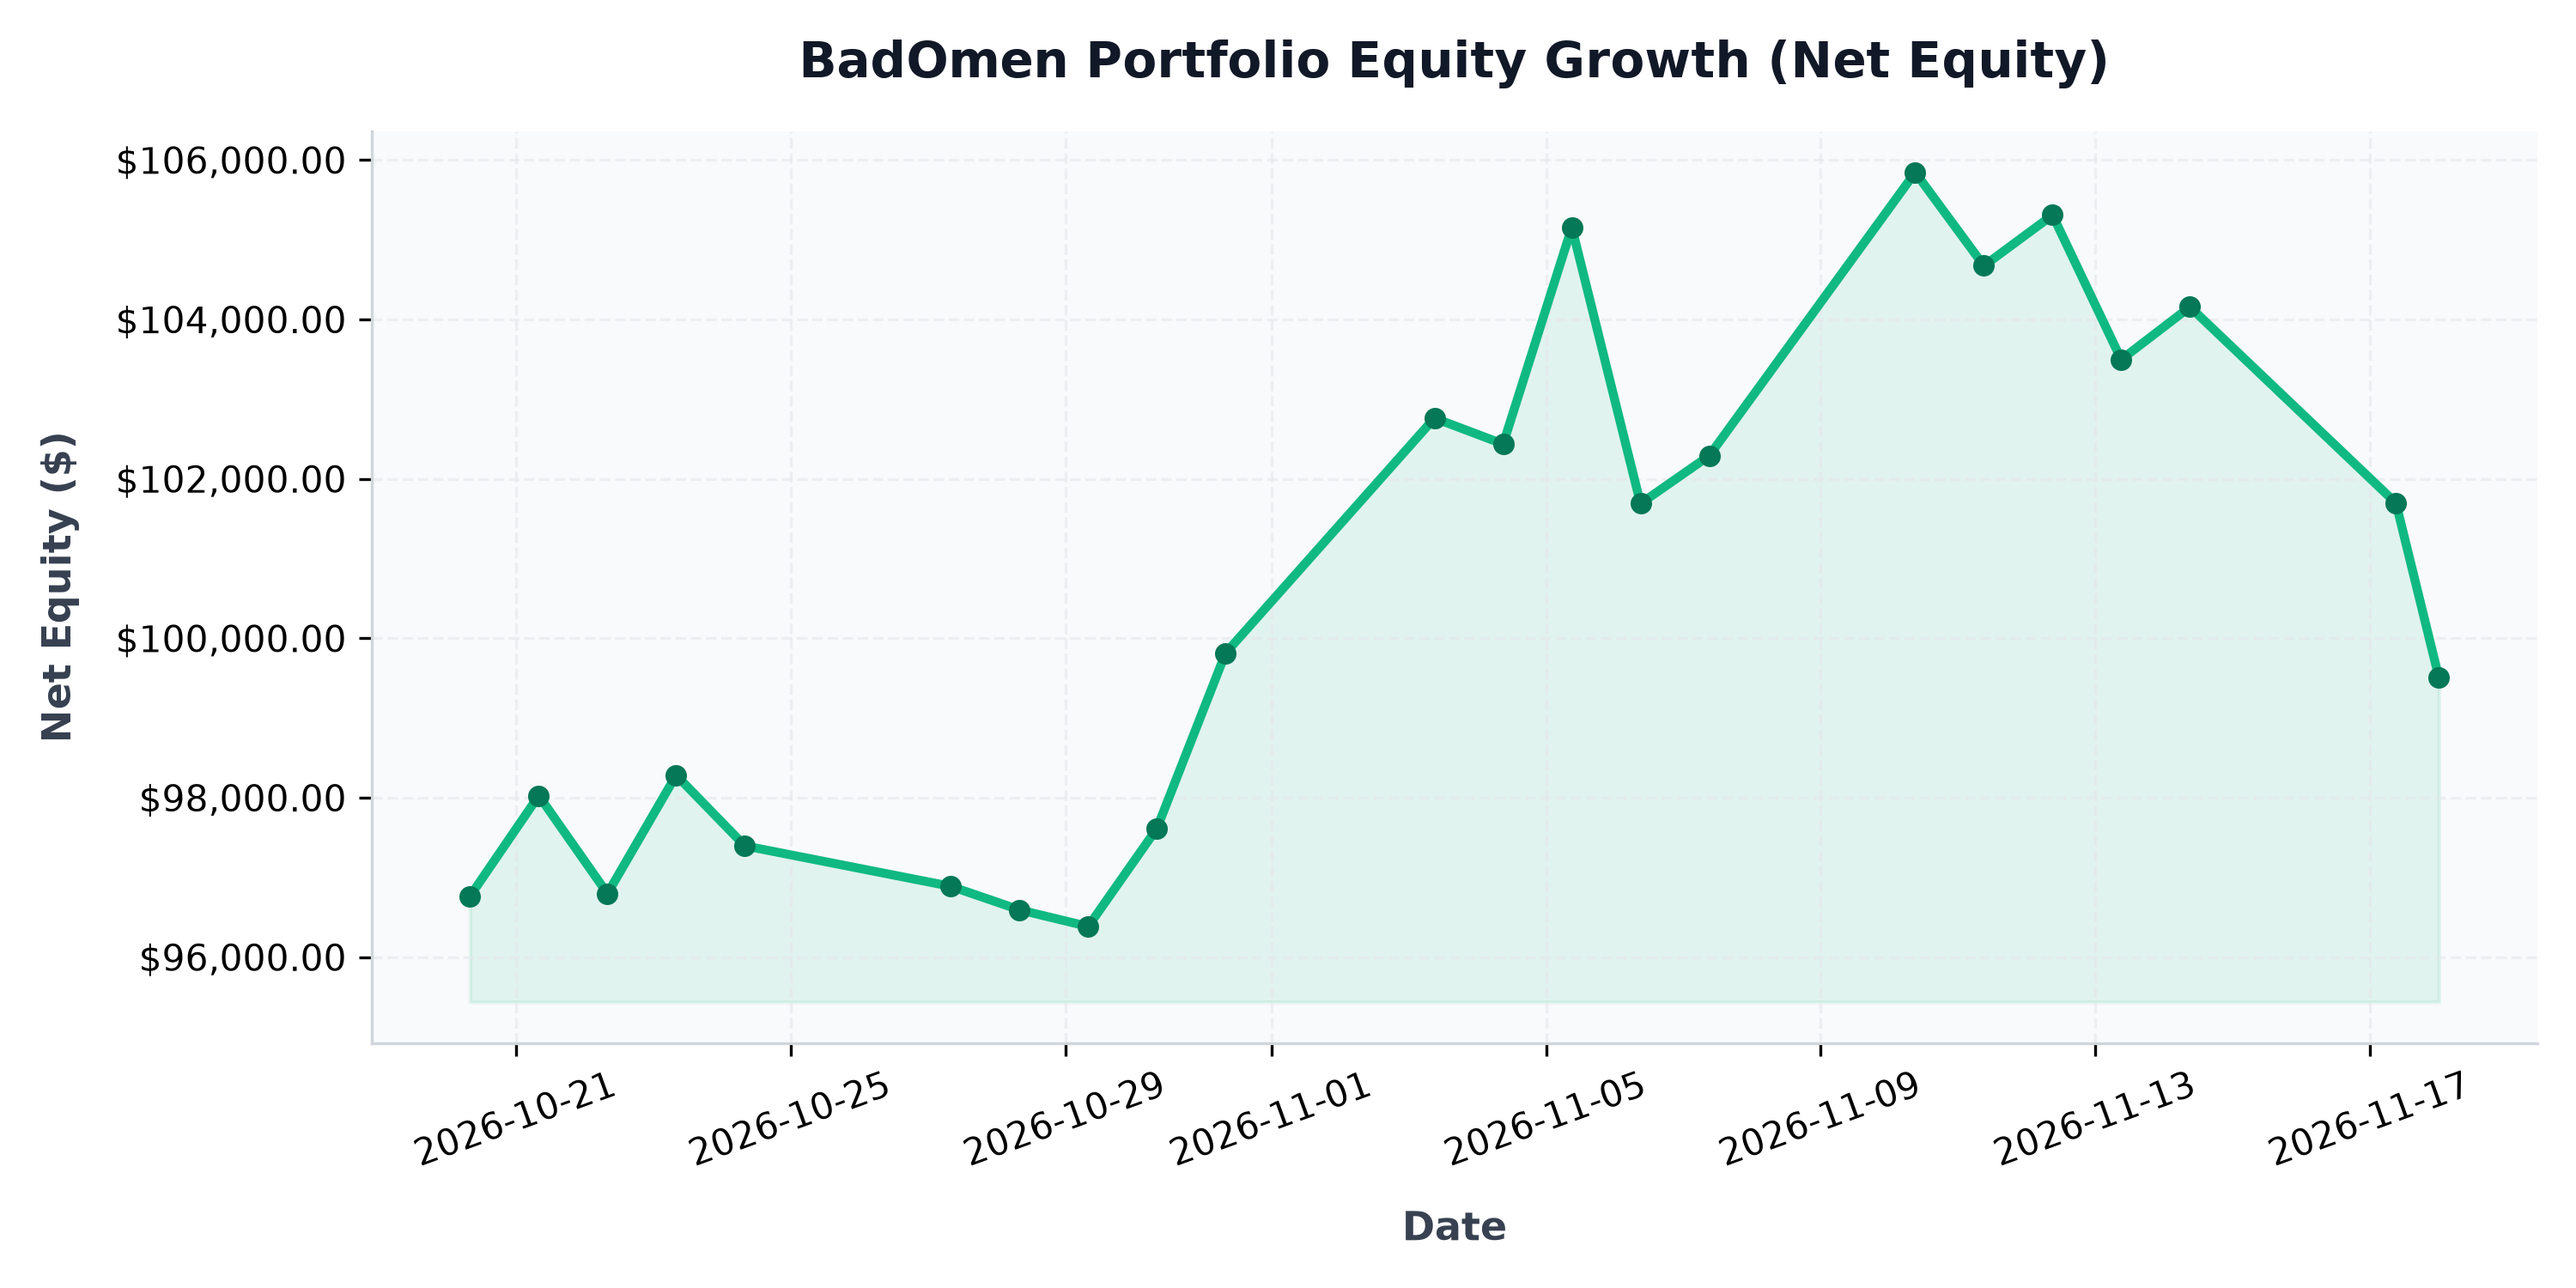
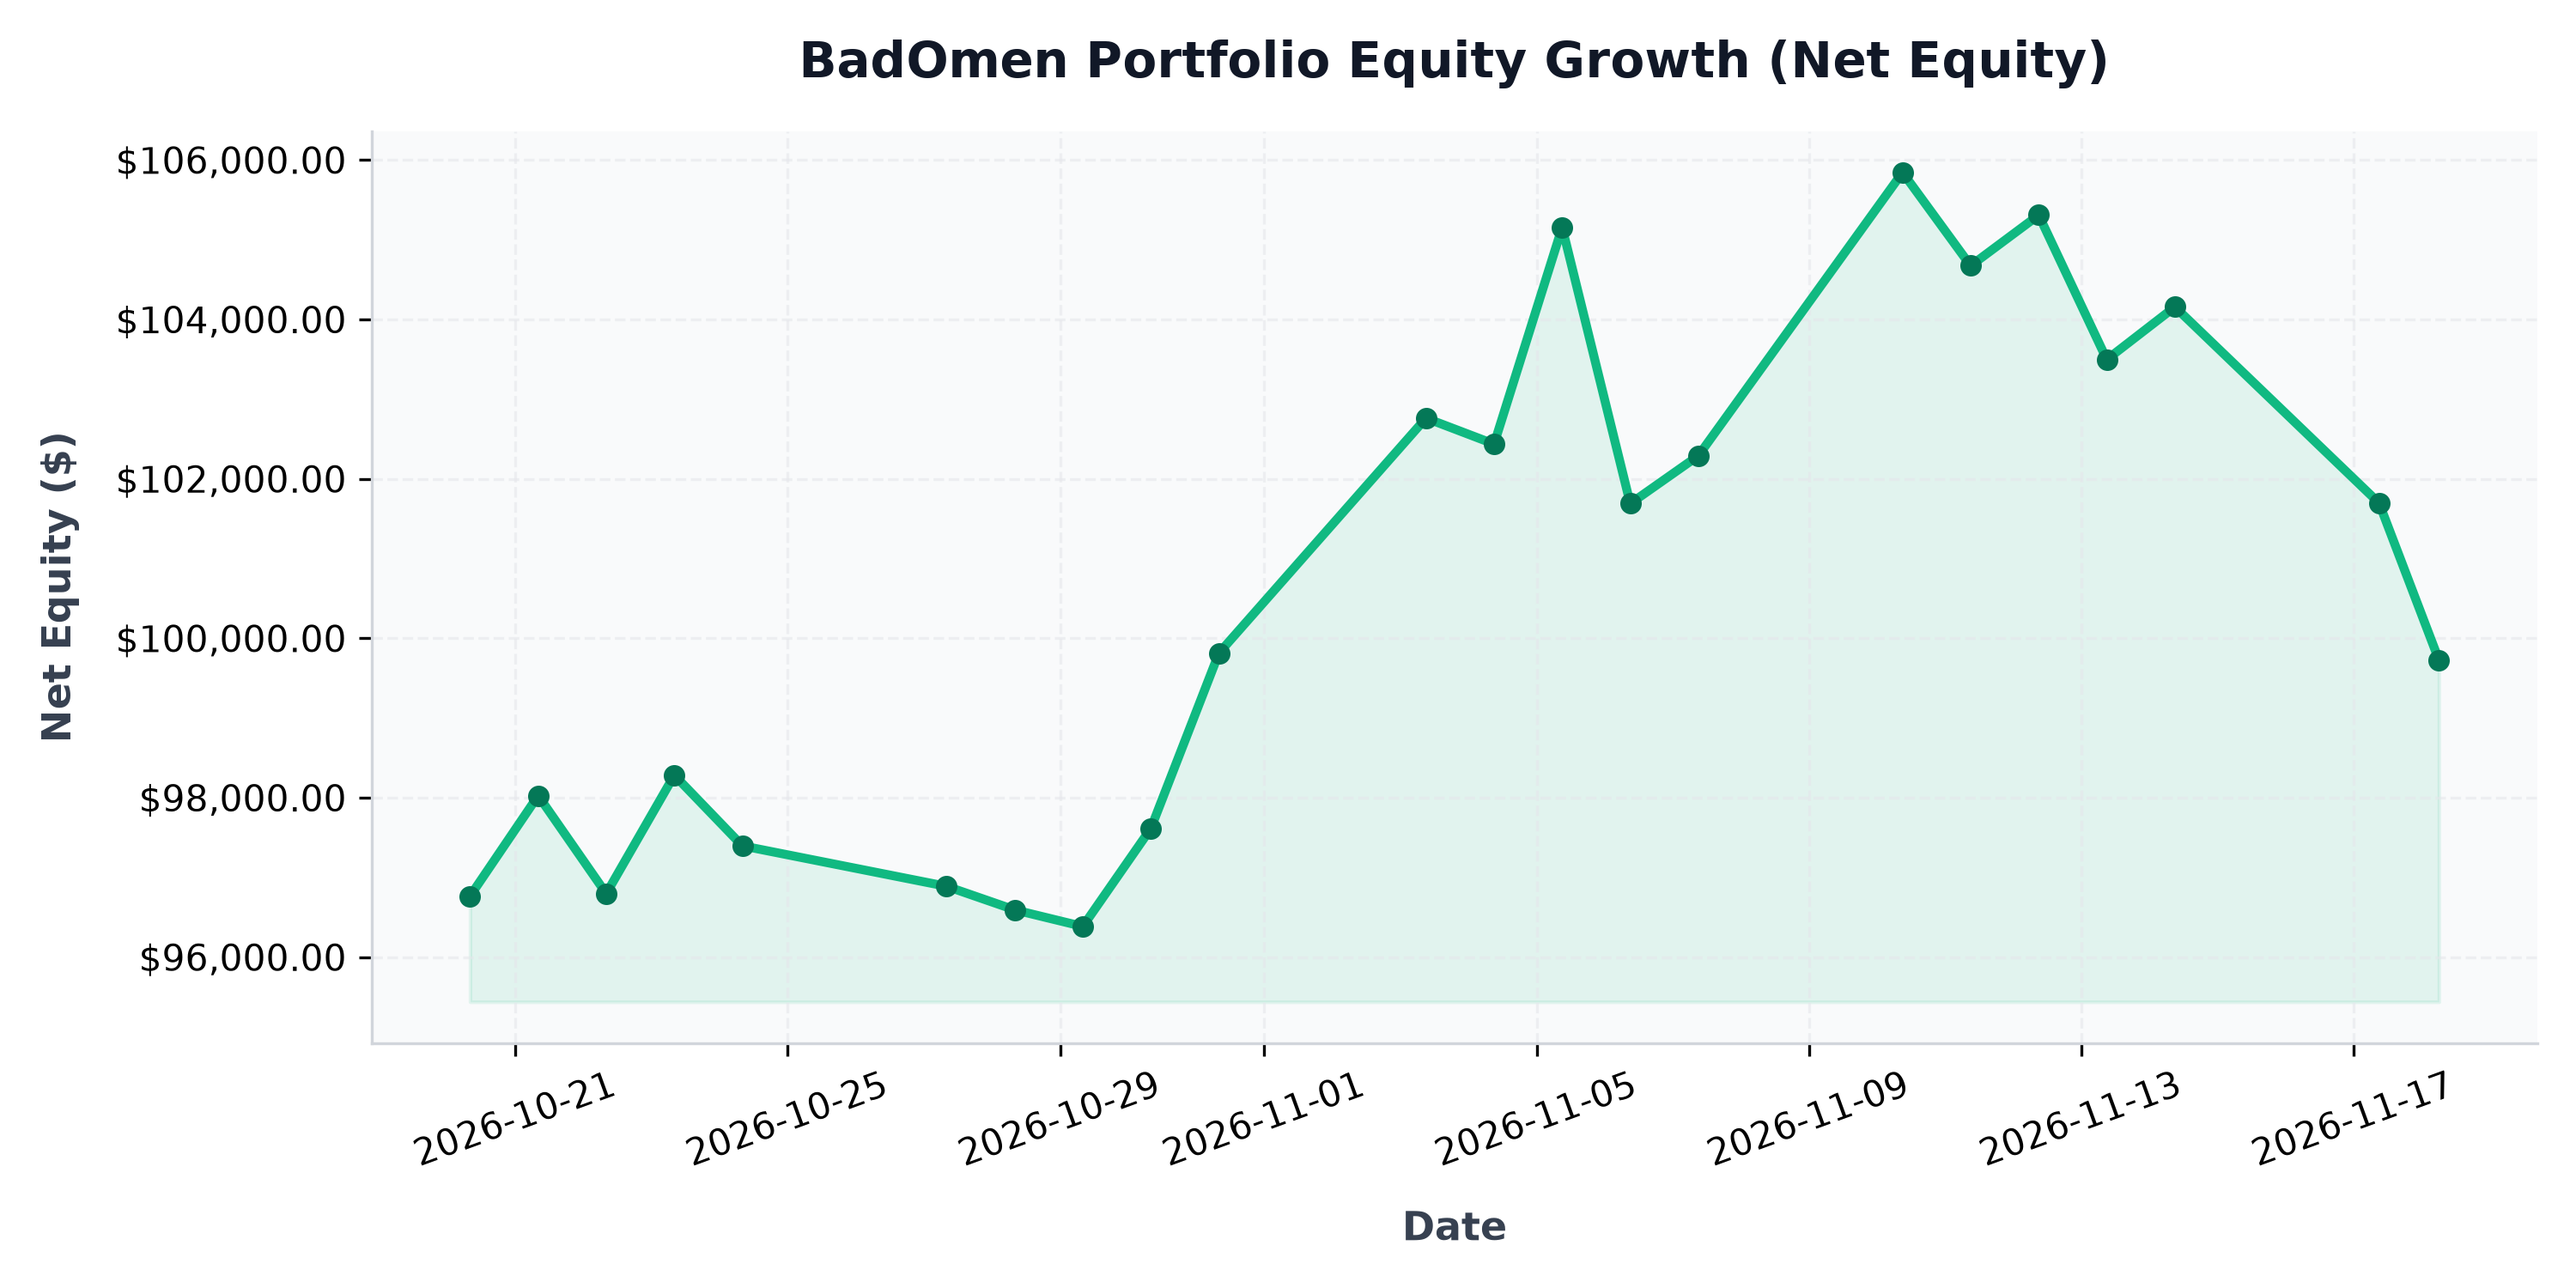
auto: daily portfolio status update - 2026-11-18 06:05:14

diff --git a/src/content/posts/portfolio-performance.md b/src/content/posts/portfolio-performance.md
@@ -1,6 +1,6 @@
 ---
 title: "BadOmen Algorithmic Portfolio Performance & PnL Report"
-pubDatetime: 2026-11-18T00:00:14.687243+08:00
+pubDatetime: 2026-11-18T06:05:14.714218+08:00
 description: "Live performance metrics, active holdings, and historic equity curve for the BadOmen automated paper trading portfolio."
 featured: true
 draft: false
@@ -16,11 +16,11 @@ Welcome to the live performance dashboard for **BadOmen**, our automated algorit
 ## 📊 Portfolio Summary
 | Performance Metric | Value | description |
 | :--- | :--- | :--- |
-| **Net Portfolio Equity** | **$99,506.48** | Total current liquidation value of cash and stock holdings |
-| **Total Unrealized P&L** | 🔴 **$-3,476.40** (-3.38%) | Total return of current open holdings |
+| **Net Portfolio Equity** | **$99,728.23** | Total current liquidation value of cash and stock holdings |
+| **Total Unrealized P&L** | 🔴 **$-3,257.82** (-3.16%) | Total return of current open holdings |
 | **Cash Balance** | $16,994.68 | Idle reserve currency available for limit orders |
-| **Buying Power** | $299,011.75 | Margin-backed buying power for entry allocations |
-| **Report Updated** | `2026-11-18 00:00:14 (SGT)` | Timestamp of daily execution and sync run |
+| **Buying Power** | $299,632.65 | Margin-backed buying power for entry allocations |
+| **Report Updated** | `2026-11-18 06:05:14 (SGT)` | Timestamp of daily execution and sync run |
 
 ## 📈 Net Equity Growth Curve
 The chart below illustrates the historical performance of the account starting from our baseline capital funding of $100,000.00.
@@ -35,36 +35,36 @@ The chart below illustrates the exposure of our currently held active positions 
 ## 💼 Current Position Holdings
 | Ticker | Industry | Shares Owned | Average Entry Cost | Current Price | Unrealized P&L | Return (%) |
 | :--- | :--- | :--- | :--- | :--- | :--- | :--- |
-| **AN** | Auto & Truck Dealerships | 5 | $188.51 | $176.61 | 🔴 $-59.49 | -6.31% |
-| **AVGO** | Semiconductors | 1 | $385.71 | $336.20 | 🔴 $-49.51 | -12.84% |
-| **BIRK** | Footwear & Accessories | 407 | $37.32 | $35.47 | 🔴 $-752.02 | -4.95% |
-| **BLBD** | Farm & Heavy Construction Machinery | 231 | $65.52 | $54.13 | 🔴 $-2,629.00 | -17.37% |
-| **BVN** | Other Precious Metals & Mining | 32 | $31.88 | $23.77 | 🔴 $-259.52 | -25.44% |
-| **CELH** | Beverages - Non-Alcoholic | 33 | $29.71 | $31.48 | 🟢 +$58.32 | +5.95% |
-| **CPRI** | Luxury Goods | 695 | $14.13 | $18.86 | 🟢 +$3,285.88 | +33.45% |
-| **DUOL** | Software - Application | 10 | $129.49 | $160.58 | 🟢 +$310.89 | +24.01% |
+| **AN** | Auto & Truck Dealerships | 5 | $188.51 | $176.46 | 🔴 $-60.24 | -6.39% |
+| **AVGO** | Semiconductors | 1 | $385.71 | $342.20 | 🔴 $-43.51 | -11.28% |
+| **BIRK** | Footwear & Accessories | 407 | $37.32 | $35.24 | 🔴 $-845.63 | -5.57% |
+| **BLBD** | Farm & Heavy Construction Machinery | 231 | $65.52 | $54.07 | 🔴 $-2,644.02 | -17.47% |
+| **BVN** | Other Precious Metals & Mining | 32 | $31.88 | $23.49 | 🔴 $-268.32 | -26.31% |
+| **CELH** | Beverages - Non-Alcoholic | 33 | $29.71 | $31.35 | 🟢 +$54.03 | +5.51% |
+| **CPRI** | Luxury Goods | 695 | $14.13 | $18.95 | 🟢 +$3,348.43 | +34.09% |
+| **DUOL** | Software - Application | 10 | $129.49 | $160.08 | 🟢 +$305.89 | +23.62% |
 | **FIS** | Information Technology Services | 23 | $41.79 | $27.49 | 🔴 $-328.90 | -34.22% |
-| **GDDY** | Software - Infrastructure | 6 | $76.21 | $107.44 | 🟢 +$187.37 | +40.98% |
-| **GDS** | Information Technology Services | 30 | $32.77 | $16.36 | 🔴 $-492.45 | -50.09% |
-| **GGAL** | Banks - Regional | 17 | $56.04 | $28.12 | 🔴 $-474.63 | -49.82% |
-| **GOOGL** | Internet Content & Information | 3 | $319.44 | $281.23 | 🔴 $-114.64 | -11.96% |
-| **GPI** | Auto & Truck Dealerships | 3 | $316.15 | $259.79 | 🔴 $-169.08 | -17.83% |
-| **HUBS** | Software - Application | 8 | $221.18 | $217.92 | 🔴 $-26.09 | -1.47% |
-| **ITRI** | Scientific & Technical Instruments | 12 | $81.80 | $93.89 | 🟢 +$145.14 | +14.79% |
-| **KBR** | Engineering & Construction | 27 | $36.23 | $34.73 | 🔴 $-40.45 | -4.13% |
-| **LRCX** | Semiconductor Equipment & Materials | 70 | $214.93 | $205.90 | 🔴 $-632.36 | -4.20% |
-| **NESR** | Oil & Gas Equipment & Services | 34 | $28.74 | $20.08 | 🔴 $-294.44 | -30.13% |
-| **NU** | Banks - Regional | 57 | $11.60 | $12.34 | 🟢 +$42.27 | +6.39% |
-| **ON** | Semiconductors | 10 | $90.45 | $67.42 | 🔴 $-230.35 | -25.47% |
-| **ORCL** | Software - Infrastructure | 5 | $181.95 | $114.85 | 🔴 $-335.50 | -36.88% |
-| **PATH** | Software - Infrastructure | 38 | $10.25 | $12.55 | 🟢 +$87.45 | +22.45% |
-| **PYPL** | Credit Services | 17 | $56.05 | $58.30 | 🟢 +$38.25 | +4.01% |
-| **QCOM** | Semiconductors | 15 | $193.68 | $165.19 | 🔴 $-427.35 | -14.71% |
-| **SMCI** | Computer Hardware | 22 | $29.25 | $23.89 | 🔴 $-117.95 | -18.33% |
-| **SRE** | Utilities - Diversified | 57 | $84.75 | $78.62 | 🔴 $-349.53 | -7.23% |
-| **T** | Telecom Services | 47 | $20.85 | $22.57 | 🟢 +$81.08 | +8.27% |
-| **WEN** | Restaurants | 257 | $8.02 | $8.54 | 🟢 +$131.40 | +6.37% |
-| **ZG** | Internet Content & Information | 31 | $31.35 | $29.38 | 🔴 $-61.17 | -6.29% |
+| **GDDY** | Software - Infrastructure | 6 | $76.21 | $106.71 | 🟢 +$183.00 | +40.02% |
+| **GDS** | Information Technology Services | 30 | $32.77 | $16.63 | 🔴 $-484.20 | -49.25% |
+| **GGAL** | Banks - Regional | 17 | $56.04 | $28.53 | 🔴 $-467.66 | -49.09% |
+| **GOOGL** | Internet Content & Information | 3 | $319.44 | $280.75 | 🔴 $-116.07 | -12.11% |
+| **GPI** | Auto & Truck Dealerships | 3 | $316.15 | $258.44 | 🔴 $-173.13 | -18.25% |
+| **HUBS** | Software - Application | 8 | $221.18 | $212.68 | 🔴 $-68.01 | -3.84% |
+| **ITRI** | Scientific & Technical Instruments | 12 | $81.80 | $93.32 | 🟢 +$138.24 | +14.08% |
+| **KBR** | Engineering & Construction | 27 | $36.23 | $34.63 | 🔴 $-43.28 | -4.42% |
+| **LRCX** | Semiconductor Equipment & Materials | 70 | $214.93 | $210.83 | 🔴 $-287.26 | -1.91% |
+| **NESR** | Oil & Gas Equipment & Services | 34 | $28.74 | $20.01 | 🔴 $-296.82 | -30.38% |
+| **NU** | Banks - Regional | 57 | $11.60 | $12.37 | 🟢 +$43.97 | +6.65% |
+| **ON** | Semiconductors | 10 | $90.45 | $68.23 | 🔴 $-222.25 | -24.57% |
+| **ORCL** | Software - Infrastructure | 5 | $181.95 | $116.02 | 🔴 $-329.65 | -36.23% |
+| **PATH** | Software - Infrastructure | 38 | $10.25 | $12.55 | 🟢 +$87.40 | +22.44% |
+| **PYPL** | Credit Services | 17 | $56.05 | $58.08 | 🟢 +$34.51 | +3.62% |
+| **QCOM** | Semiconductors | 15 | $193.68 | $166.83 | 🔴 $-402.82 | -13.87% |
+| **SMCI** | Computer Hardware | 22 | $29.25 | $24.23 | 🔴 $-110.41 | -17.16% |
+| **SRE** | Utilities - Diversified | 57 | $84.75 | $77.51 | 🔴 $-412.82 | -8.54% |
+| **T** | Telecom Services | 47 | $20.85 | $22.29 | 🟢 +$67.68 | +6.91% |
+| **WEN** | Restaurants | 257 | $8.02 | $8.69 | 🟢 +$171.23 | +8.30% |
+| **ZG** | Internet Content & Information | 31 | $31.35 | $28.54 | 🔴 $-87.21 | -8.97% |
 
 ## 🔴 Recent Realized Trades
 | Ticker | Shares Sold | Entry Price | Exit Price | Strategy Trigger | Realized Return | Exit Date |
